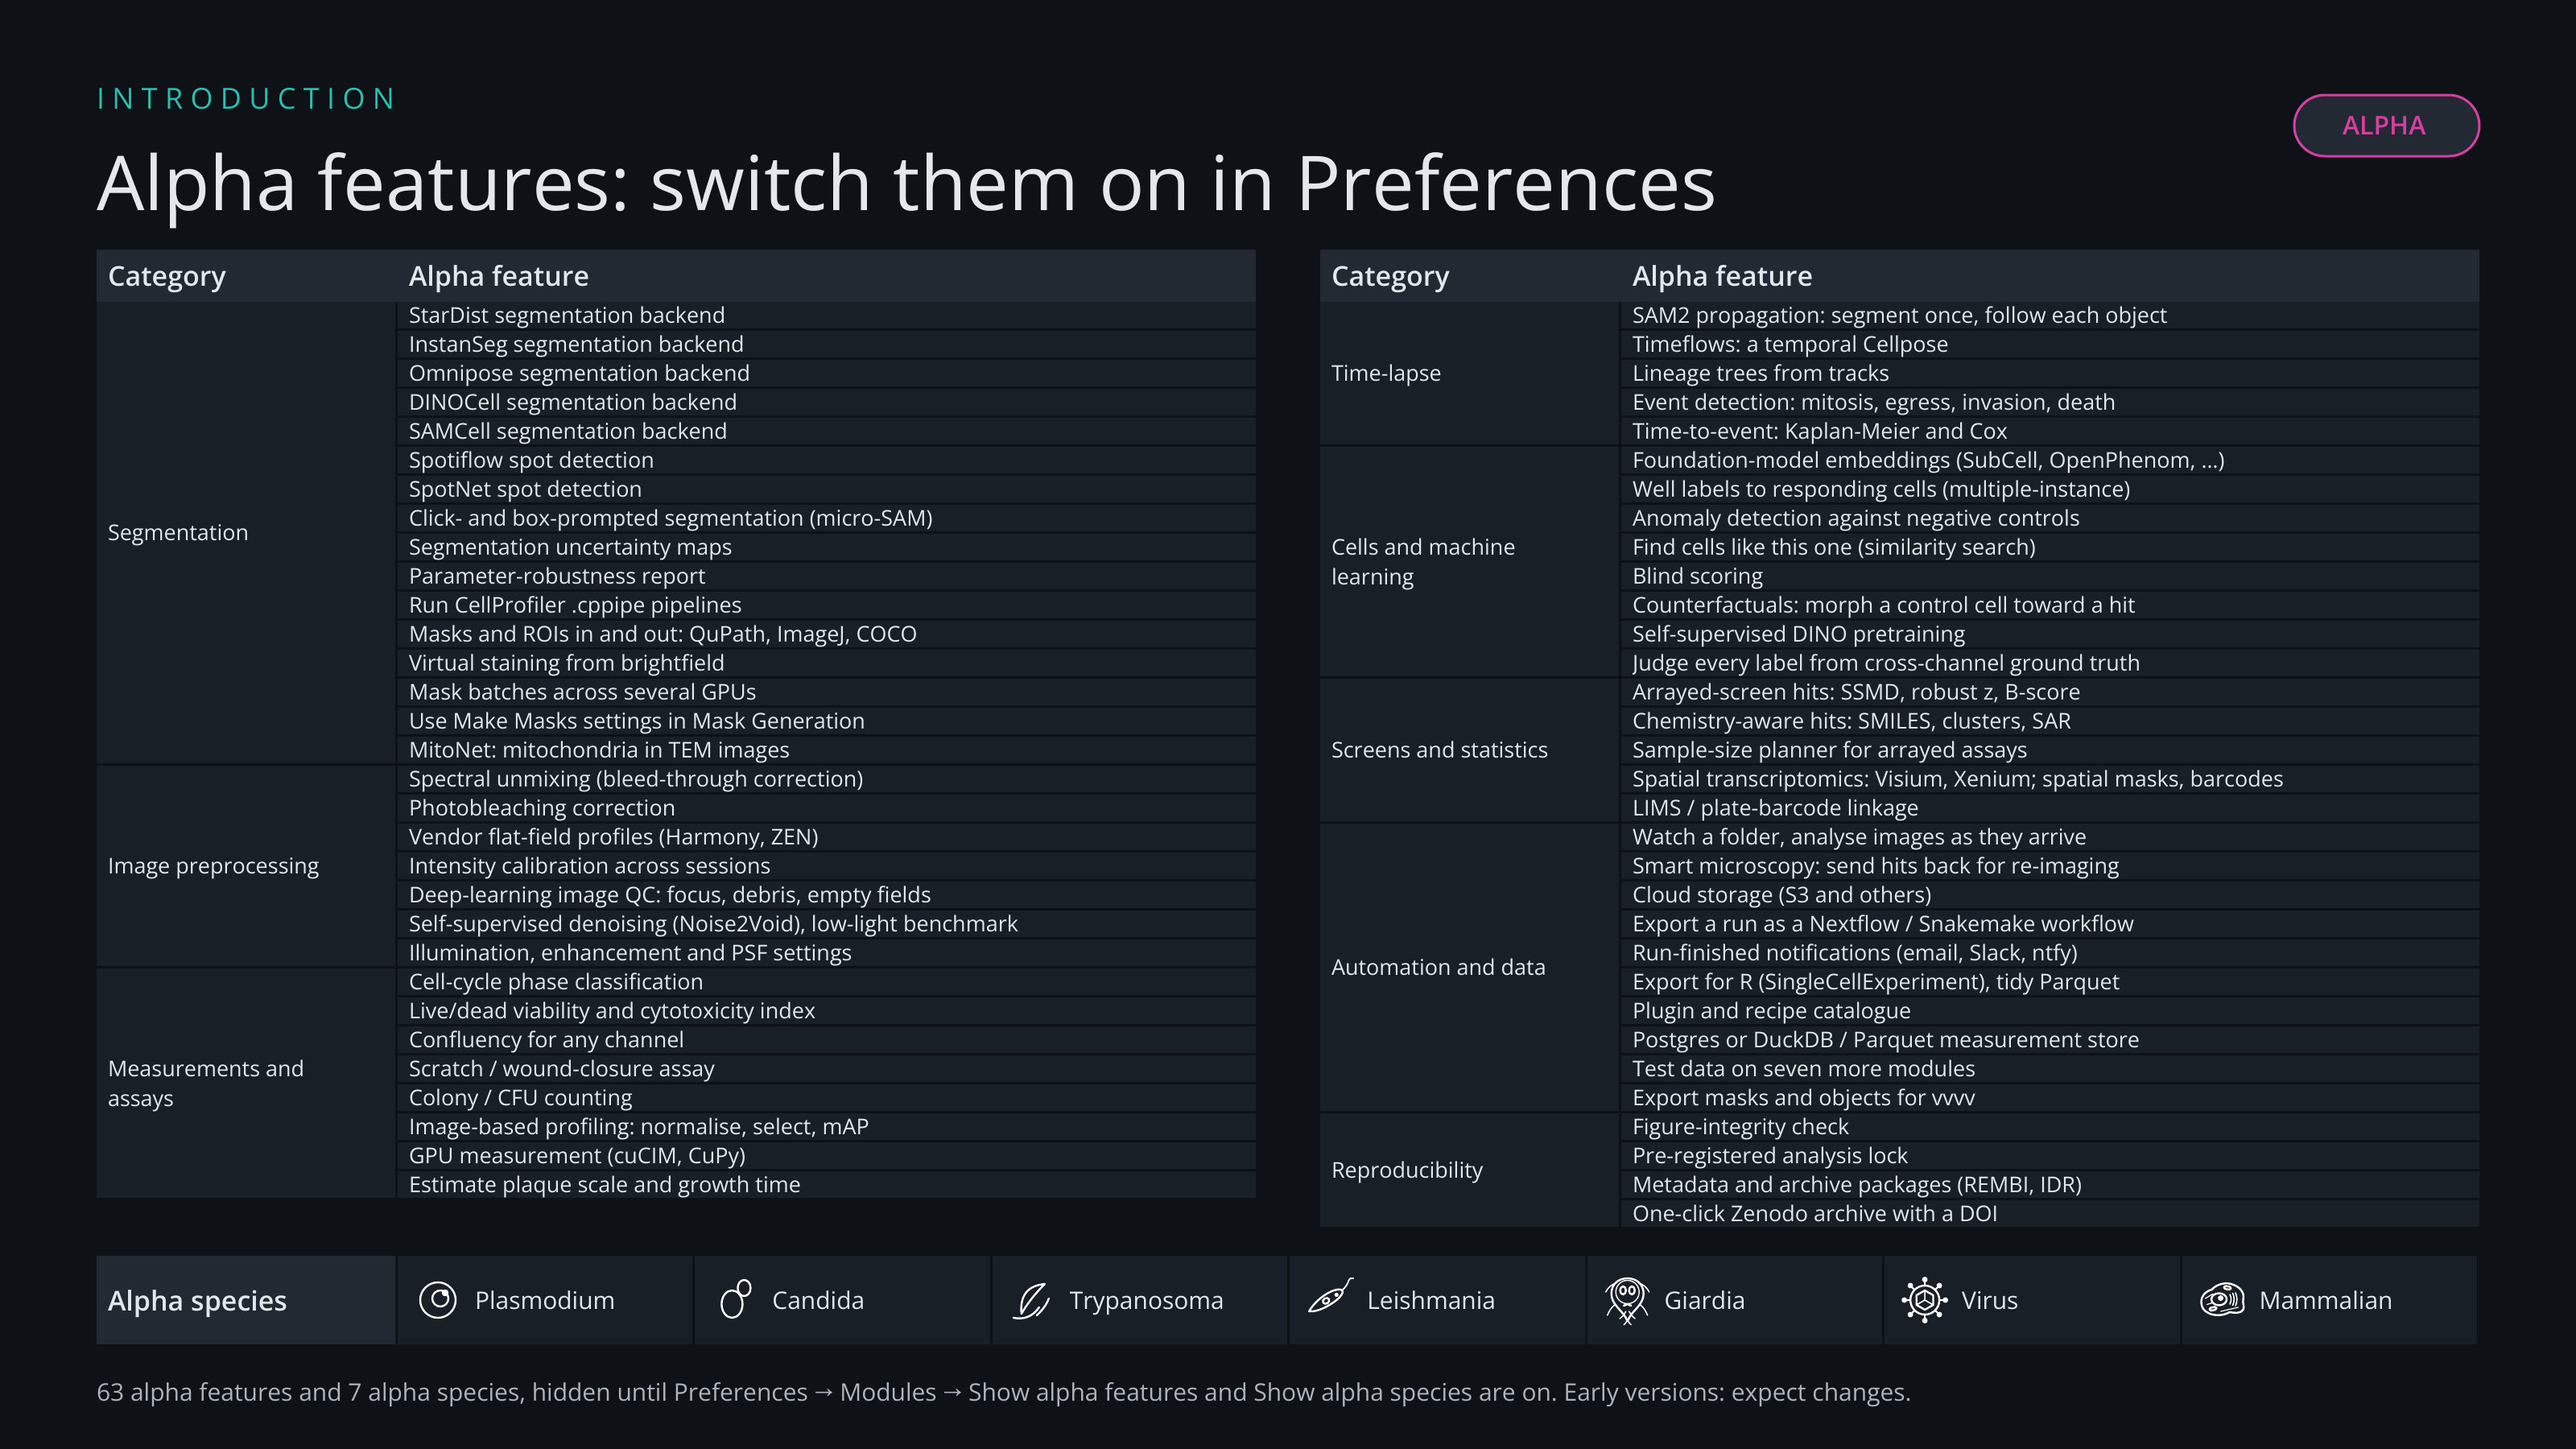
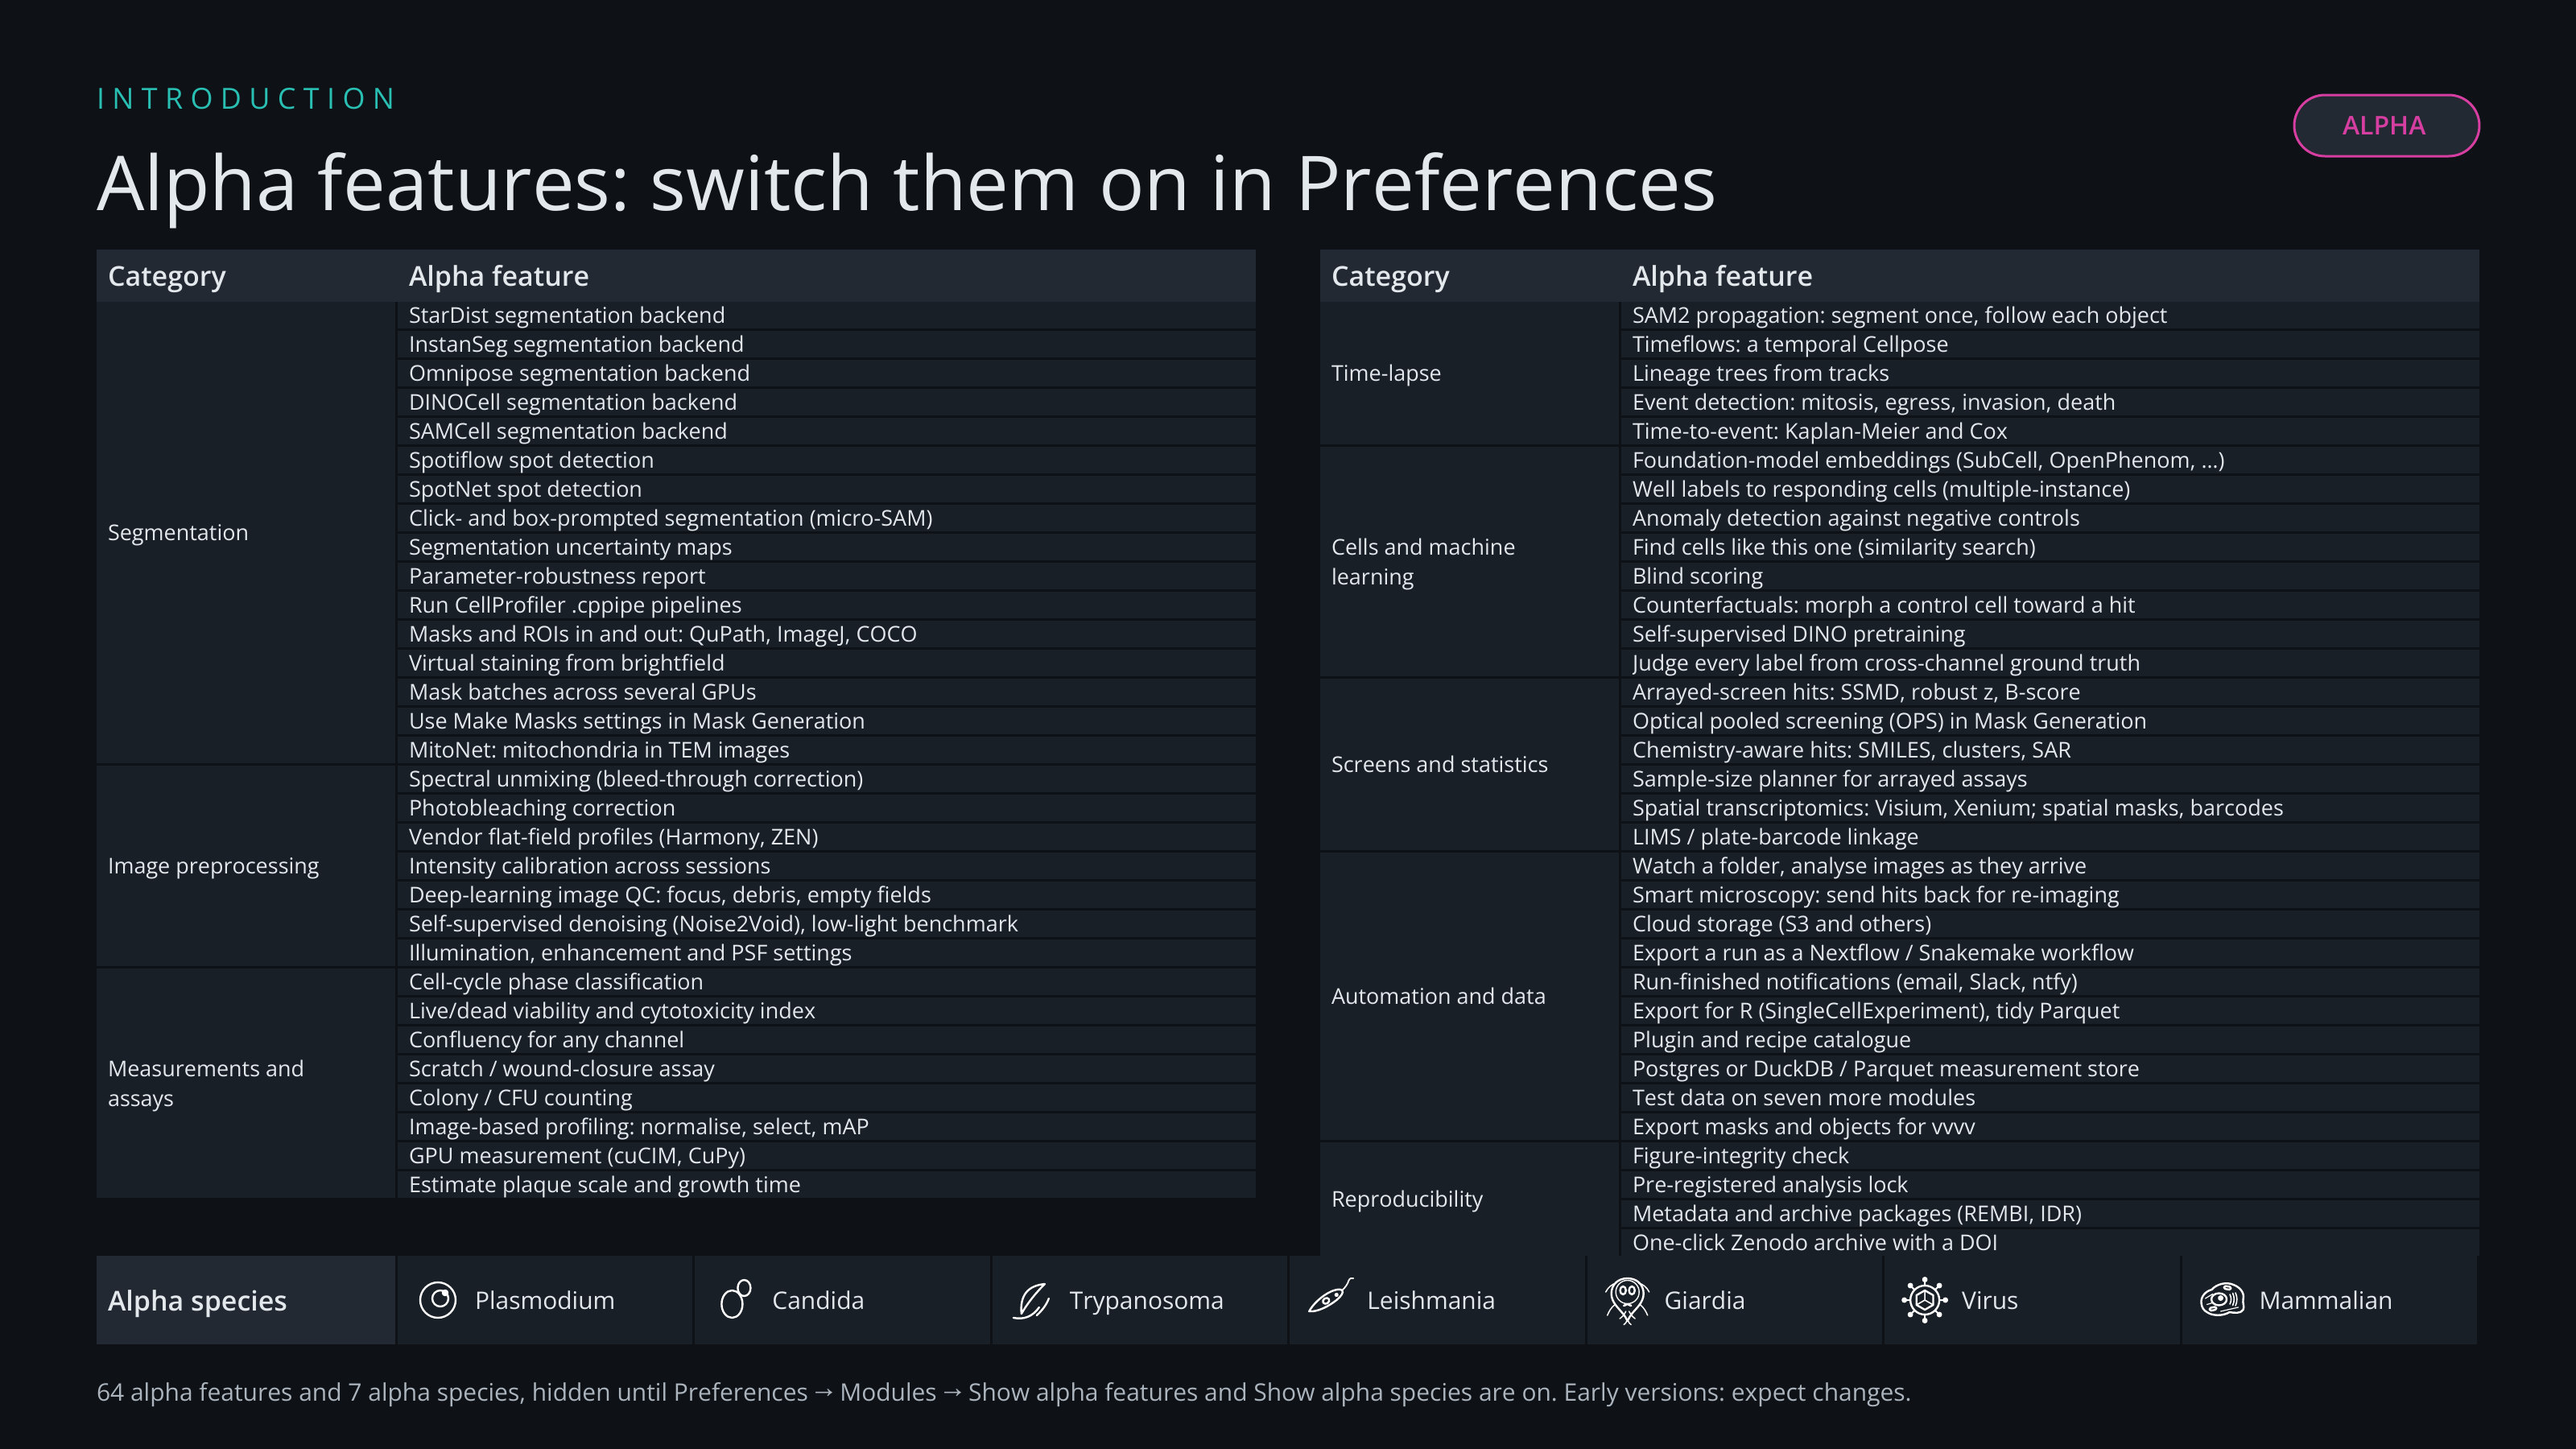
Show OPS behind Show alpha features alone, with its settings on the page
Mask's OPS switch answered to neither alpha preference, and every OPS
section carried alpha maturity, so with Show alpha features on and the
separate alpha-maturity preference off the switch opened a page whose
every section, "Load test data…" among them, was hidden at Essentials
and at All (tutorial 76).

OPS is now item 372 in ALPHA_FEATURES: the switch is MaskOpsSwitch and
shows only while Show alpha features is on. A page opened by such a
switch (mask.ALPHA_FEATURE_PAGES) has its own alpha sections follow that
switch's gate rather than the maturity preference; alpha maturity still
hides alpha settings in every other module.

The alpha slide lists the new entry ("Optical pooled screening (OPS) in
Mask Generation") and its registry count pins move from 63 to 64; the
slide image and thumbnail are regenerated by tools/refresh_alpha_deck.py.
The deck PDF is media pinned in the Hugging Face dataset and still has
to be published with tools/fetch_docs_media.py before
test_the_published_alpha_page_covers_the_current_registry passes.

diff --git a/tests/qt/test_ops_follows_show_alpha_features_alone_20261025.py b/tests/qt/test_ops_follows_show_alpha_features_alone_20261025.py
@@ -1,0 +1,96 @@
+"""OPS is reached through Show alpha features alone, and shows its settings.
+
+2026-10-25, tutorial 76: with Show alpha features on and the separate
+alpha-maturity preference off, Mask -> OPS opened a page whose every section,
+the "Load test data…" one among them, was hidden at Essentials and at All.
+OPS is an alpha module, so each of its sections carried alpha maturity, and
+the switch that opens it answered to neither preference. OPS is now an alpha
+feature (item 372 in ``ALPHA_FEATURES``): the switch shows only while Show
+alpha features is on, and while it is on the page shows its own sections
+whatever the maturity preference says.
+"""
+from __future__ import annotations
+
+import pytest
+from PySide6.QtWidgets import QPushButton, QWidget
+
+import spacr.qt.app as app_module
+from spacr.qt import preferences
+from spacr.qt import settings_search as ss
+from spacr.qt.screens import mask as mask_screen
+from spacr.qt.widgets.section import Section, _sections_below
+
+
+@pytest.fixture
+def alpha_preferences():
+    saved = preferences.get_show_alpha(), preferences._get_show_alpha_features()
+
+    def choose(*, features, maturity):
+        preferences._set_show_alpha_features(features)
+        preferences.set_show_alpha(maturity)
+
+    yield choose
+    preferences.set_show_alpha(saved[0])
+    preferences._set_show_alpha_features(saved[1])
+
+
+@pytest.fixture
+def open_mask(qtbot):
+    windows = []
+
+    def open_it():
+        win = app_module.MainWindow()
+        windows.append(win)
+        win.resize(1400, 900)
+        win.show()
+        win._on_nav_selected("mask")
+        qtbot.waitUntil(lambda: "mask" in win._screens, timeout=10000)
+        return win, win._screens["mask"]
+
+    yield open_it
+    for win in windows:
+        win.close()
+        win.deleteLater()
+
+
+def _the_example_button(page):
+    return next(button for button in page.findChildren(QPushButton)
+                if button.text().startswith("Load test data"))
+
+
+def _section_holding(page, widget):
+    return next(section for section in _sections_below(page)
+                if isinstance(section, Section) and section.isAncestorOf(widget))
+
+
+def test_ops_shows_its_test_data_section_at_both_levels_with_alpha_features_alone(
+        qtbot, alpha_preferences, open_mask):
+    alpha_preferences(features=True, maturity=False)
+    win, mask = open_mask()
+    switch = mask._ops_switch
+    assert switch.objectName() == "MaskOpsSwitch"
+    qtbot.waitUntil(lambda: switch.isVisibleTo(mask), timeout=5000)
+    fold = mask_screen.ops_page(mask)
+    fold.set_shown(True)
+    qtbot.waitUntil(lambda: fold.page is not None, timeout=10000)
+    page = fold.page
+    button = _the_example_button(page)
+    section = _section_holding(page, button)
+    bar = next(widget for widget in win.findChildren(QWidget)
+               if widget.objectName() == ss.BAR_NAME)
+    for level in (ss.ESSENTIALS, ss.ALL, ss.ESSENTIALS):
+        bar.set_level(level)
+        qtbot.waitUntil(lambda: section.isVisibleTo(page) and button.isVisibleTo(page),
+                        timeout=5000)
+    sections = [s for s in _sections_below(page) if isinstance(s, Section)]
+    assert sections and all(s.isVisibleTo(page) for s in sections)
+
+
+@pytest.mark.parametrize("maturity", [False, True])
+def test_without_alpha_features_mask_offers_no_ops_switch(
+        qtbot, alpha_preferences, open_mask, maturity):
+    alpha_preferences(features=False, maturity=maturity)
+    _win, mask = open_mask()
+    assert mask._ops_switch.objectName() == "MaskOpsSwitch"
+    qtbot.wait(50)
+    assert not mask._ops_switch.isVisibleTo(mask)

diff --git a/spacr/qt/screens/app_screen.py b/spacr/qt/screens/app_screen.py
@@ -6613,6 +6613,21 @@ class AppScreen(QWidget):
 
         QApplication.processEvents()
 
+    def _shown_as_an_alpha_feature(self) -> bool:
+        """Whether this module is an alpha feature the user has turned on.
+
+        A page opened by an alpha-feature switch -- OPS, from Mask's
+        ``MaskOpsSwitch`` -- is reached through Show alpha features alone,
+        so its own alpha sections follow that switch's gate rather than the
+        separate alpha-maturity preference. Without this the switch opened a
+        page whose every section was hidden.
+        """
+        from ..preferences import _is_alpha_visible
+        from .mask import ALPHA_FEATURE_PAGES
+
+        switch = ALPHA_FEATURE_PAGES.get(self.app_key)
+        return switch is not None and _is_alpha_visible("widgets", switch)
+
     def refresh_maturity_visibility(self) -> None:
         """Show/hide Alpha and Beta settings without discarding typed values.
 
@@ -6632,12 +6647,14 @@ class AppScreen(QWidget):
         """
         from ..preferences import maturity_is_visible
 
+        alpha_feature = self._shown_as_an_alpha_feature()
         hidden_stages = set()
         gated = (self._dimension_hidden_sections()
                  | self._headings_the_run_lacks()
                  | self._alpha_hidden_sections())
         for section in self.rendered_settings_sections():
-            visible = maturity_is_visible(section.maturity())
+            visible = (maturity_is_visible(section.maturity())
+                       or (alpha_feature and section.maturity() == "alpha"))
             section.setVisible(visible and id(section) not in gated)
             if not visible:
                 hidden_stages.add(section.maturity())
@@ -8595,6 +8612,7 @@ class AppScreen(QWidget):
 
                 self._ops_switch = AiToggleLabel(
                     text=OPS_TOGGLE_TEXT, tooltip=OPS_TOGGLE_TOOLTIP)
+                self._ops_switch.setObjectName("MaskOpsSwitch")
                 row.addWidget(self._ops_switch)
                 install_ops_switch(self, self._ops_switch)
             except Exception:                            # noqa: BLE001

diff --git a/tests/test_alpha_deck_registry.py b/tests/test_alpha_deck_registry.py
@@ -26,7 +26,8 @@ def test_the_published_alpha_page_covers_the_current_registry():
     # 404 (2026-10-04): DINOCell stays an alpha backend, which makes 61.
     # 685 (2026-10-10): the Make Masks vvvv export makes 62.
     # 691 (2026-10-11): MitoNet for mitochondria in TEM makes 63.
-    assert deck._check_registry(ROOT / "spacr/settings.py") == 63
+    # 372 (2026-10-25): the OPS page in Mask Generation makes 64.
+    assert deck._check_registry(ROOT / "spacr/settings.py") == 64
     # 710: the published PDF is fetched from the pinned dataset revision.
     media_spec = importlib.util.spec_from_file_location("fetch_docs_media", ROOT / "tools/fetch_docs_media.py")
     media = importlib.util.module_from_spec(media_spec)
@@ -38,7 +39,7 @@ def test_the_published_alpha_page_covers_the_current_registry():
             assert unicodedata.normalize("NFKC", caption) in text
     for _, name in deck.SPECIES:
         assert name in text
-    assert "63 alpha features and 7 alpha species" in text
+    assert "64 alpha features and 7 alpha species" in text
 
 
 def test_unknown_registry_entry_refuses_before_touching_assets(tmp_path):
@@ -80,7 +81,7 @@ def test_refresh_preserves_other_pages_and_renders_searchable_text(tmp_path):
     assert len(after.pages) == 3
     assert [float(page.mediabox.width) for page in after.pages] == [100, 960, 200]
     assert after.metadata.title == "Keep this title"
-    assert "63 alpha features" in " ".join(after.pages[1].extract_text().split())
+    assert "64 alpha features" in " ".join(after.pages[1].extract_text().split())
     assert after.pages[0].get_contents() is None
     assert after.pages[2].get_contents() is None
     assert Image.open(tmp_path / "1.jpg").size == (3200, 1800)

diff --git a/spacr/qt/screens/mask.py b/spacr/qt/screens/mask.py
@@ -432,6 +432,10 @@ OPS_KEY: str = PAGE_FOLDS[0]
 #: What the switch says. AN ACRONYM, DELIBERATELY UNEXPANDED: "optical
 #: pooled screening" does not fit the actions row beside Live, and OPS is
 #: what the field calls it.
+#: Module pages opened by an alpha-feature switch, by app key: the
+#: ``ALPHA_FEATURES`` widget name of the switch that opens each one.
+ALPHA_FEATURE_PAGES = {"ops": "MaskOpsSwitch"}
+
 OPS_TOGGLE_TEXT = "OPS"
 
 #: What it says on hover. The full name is here, where there is room for

diff --git a/tools/refresh_alpha_deck.py b/tools/refresh_alpha_deck.py
@@ -78,6 +78,7 @@ GROUPS = (
     )),
     ("Screens and statistics", (
         (570, "Arrayed-screen hits: SSMD, robust z, B-score"),
+        (372, "Optical pooled screening (OPS) in Mask Generation"),
         (584, "Chemistry-aware hits: SMILES, clusters, SAR"),
         (585, "Sample-size planner for arrayed assays"),
         (534, "Spatial transcriptomics: Visium, Xenium; spatial masks, barcodes"),

diff --git a/spacr/settings.py b/spacr/settings.py
@@ -7587,6 +7587,9 @@ ALPHA_KINDS = ('settings', 'choices', 'widgets', 'apps', 'models',
 
 
 ALPHA_FEATURES = {
+    372: {
+        'widgets': ('MaskOpsSwitch',),
+    },
     691: {
         'models': ('mitonet_mini_v1',),
         'widgets': ('MakeMasksMitoNetSettings', 'ModelZooSourceThirdParty'),
